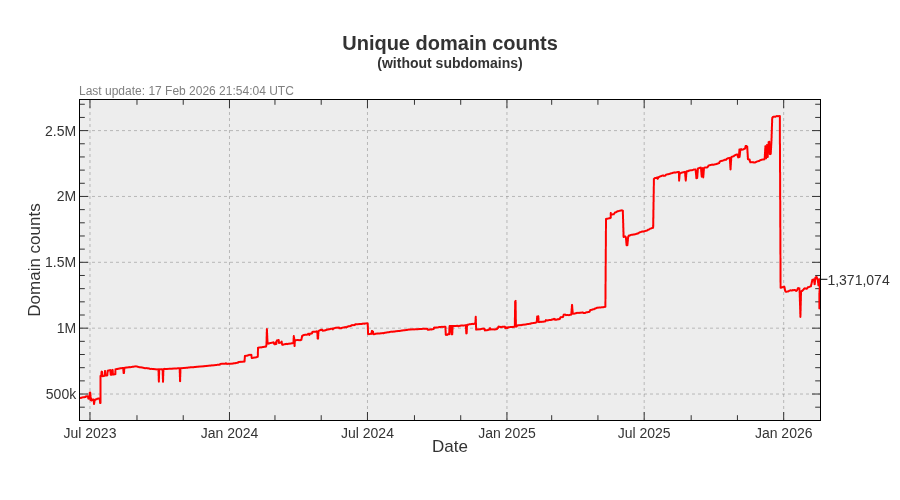
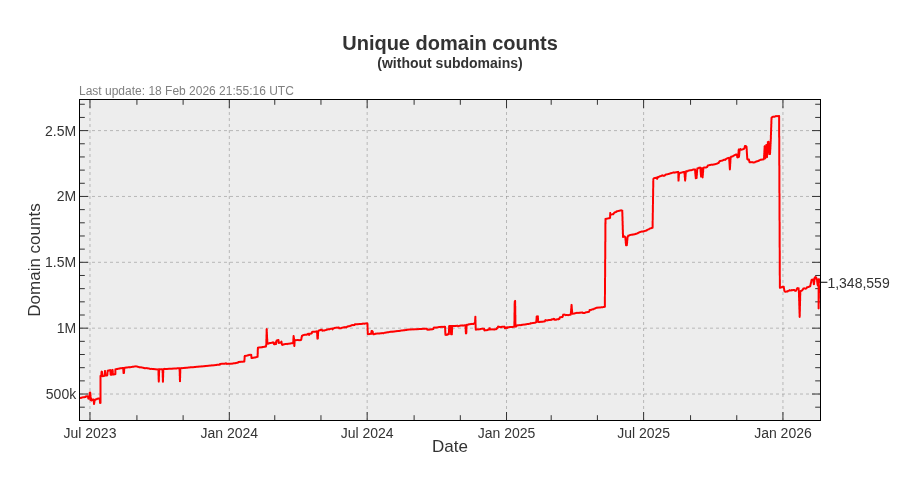
Update pages

diff --git a/README.md b/README.md
@@ -3,22 +3,22 @@ A blocklist file for blocking ads, trackers and malware domains.
 
[1 lines of base64/hex data omitted]
 
-- Unique domains: 2,017,941
-- Without subdomains: 1,371,074
-- Last update: 17 Feb 2026 21:54:04 UTC
-- Version: 2026.02.17.02
+- Unique domains: 1,994,361
+- Without subdomains: 1,348,559
+- Last update: 18 Feb 2026 21:55:16 UTC
+- Version: 2026.02.18.01
 
 
 ### Downloads:
 
 | Format             | Domain count      | Download Link |
 |:------------------ | -----------------:|:-------------:|
-| *Adblock Plus*     | 1,371,074 | [Download](https://dl.cenk.app/bad-hosts/bad-hosts-abp) |
-| *Wildcard domains* | 1,371,074 | [Download](https://dl.cenk.app/bad-hosts/bad-hosts-wildcard) |
-| *dnsmasq*          | 1,371,074 | [Download](https://dl.cenk.app/bad-hosts/bad-hosts-dnsmasq) |
-| *hosts*            | 2,017,941 | [Download](https://dl.cenk.app/bad-hosts/hosts) |
-| *hosts (ipv6)*     | 2,017,941 | [Download](https://dl.cenk.app/bad-hosts/hosts-ipv6) |
-| *Plain domains*    | 2,017,941 | [Download](https://dl.cenk.app/bad-hosts/bad-hosts-domains) |
+| *Adblock Plus*     | 1,348,559 | [Download](https://dl.cenk.app/bad-hosts/bad-hosts-abp) |
+| *Wildcard domains* | 1,348,559 | [Download](https://dl.cenk.app/bad-hosts/bad-hosts-wildcard) |
+| *dnsmasq*          | 1,348,559 | [Download](https://dl.cenk.app/bad-hosts/bad-hosts-dnsmasq) |
+| *hosts*            | 1,994,361 | [Download](https://dl.cenk.app/bad-hosts/hosts) |
+| *hosts (ipv6)*     | 1,994,361 | [Download](https://dl.cenk.app/bad-hosts/hosts-ipv6) |
+| *Plain domains*    | 1,994,361 | [Download](https://dl.cenk.app/bad-hosts/bad-hosts-domains) |
 
 ### Domain count history
 #### With subdomains
